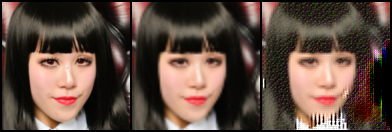
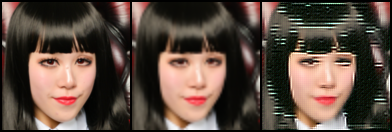
architecture changes

Changed region(s): [[0.6429, 0.0, 1.0, 1.0], [0.7959, 0.6364, 0.8571, 0.6667]]

diff --git a/diffusion2/model/model.py b/diffusion2/model/model.py
@@ -2,27 +2,23 @@ import math
 import torch
 from torch import nn
 import pytorch_lightning as pl
+from model.residual_block import Block, ResidualBlock, ResidualBlockDown, ResidualBlockUp
 
 from model.big_gan_residual import BigGanResidualDown, BigGanResidualSame, BigGanResidualUp
 
 class VarianceEmbedding(pl.LightningModule):
-    def __init__(self, embedding_shape):
+    def __init__(self, embedding_size):
         super(VarianceEmbedding, self).__init__()
-        self.embedding_shape = embedding_shape
+        self.embedding_size = embedding_size
 
-        flat_dim = 1
-        for k in embedding_shape:
-            flat_dim *= k
-
-    
         self.model = nn.Sequential(
-            nn.Linear(1,flat_dim),
-            nn.ReLU()
+            nn.Linear(1,embedding_size*4),
+            nn.SiLU(),
+            nn.Linear(embedding_size*4,embedding_size),
+
         )
     def forward(self, x):
-        y = self.model(x)
-        y = y.view(y.shape[0],1,*self.embedding_shape )
-        return y
+        return self.model(x)
 
 
 class Diffusion(pl.LightningModule):
@@ -32,7 +28,6 @@ class Diffusion(pl.LightningModule):
         hidden_channels, 
         out_channels, 
         scales, 
-        variance_embedding_shape=(64,64),
         same_dimension_blocks = 0):
         super(Diffusion, self).__init__()
         self.save_hyperparameters()
@@ -45,71 +40,72 @@ class Diffusion(pl.LightningModule):
         self.initial_transform = nn.Conv2d(
             in_channels=in_channels, 
             out_channels=hidden_channels,
-            kernel_size=1)
+            kernel_size=3,
+            padding=1)
+
+        self.v_embedding = VarianceEmbedding(hidden_channels)
 
         in_blocks = []
-        variance_embedding_in = []
         out_blocks = []
-        variance_embedding_out = []
 
         current_channels = hidden_channels
 
         for _ in range(scales):
-            in_blocks.append(BigGanResidualDown(current_channels))
-            out_blocks.append(BigGanResidualUp(current_channels*2))
+            in_blocks.append(
+                ResidualBlockDown(
+                    in_channels= current_channels,
+                    out_channels=current_channels*2,
+                    embedding_size=hidden_channels
+                    ))
+            out_blocks.append(
+                ResidualBlockUp(
+                    in_channels= current_channels*2*2,
+                    out_channels=current_channels,
+                    embedding_size=hidden_channels
+                    ))
+
             current_channels = 2*current_channels
 
-            variance_embedding_in.append(
-                VarianceEmbedding(variance_embedding_shape)
-            )
-            variance_embedding_out.append(
-                    VarianceEmbedding(variance_embedding_shape)
-                )
 
         for _ in range(same_dimension_blocks):
-            in_blocks.append(BigGanResidualSame(current_channels))
-            out_blocks.append(BigGanResidualSame(current_channels))
-        
-            variance_embedding_in.append(
-                    VarianceEmbedding(variance_embedding_shape)
-                )
-            variance_embedding_out.append(
-                    VarianceEmbedding(variance_embedding_shape)
-                )
+            in_blocks.append(ResidualBlock(
+                in_channels=current_channels,
+                out_channels=current_channels,
+                embedding_size=hidden_channels
+                ))
+            out_blocks.append(ResidualBlock(
+                in_channels=current_channels*2,
+                out_channels=current_channels,
+                embedding_size=hidden_channels
+                ))
 
-
-        variance_embedding_out.reverse()
         out_blocks.reverse()
 
         self.in_blocks = nn.ModuleList(in_blocks)
         self.out_blocks = nn.ModuleList(out_blocks)
 
-        self.variance_embedding_in = nn.ModuleList(variance_embedding_in)
-        self.variance_embedding_out = nn.ModuleList(variance_embedding_out)
 
-        self.final_transform = nn.Conv2d(
+        self.final_transform = Block(
             in_channels=hidden_channels, 
             out_channels=out_channels,
-            kernel_size=1)
+            )
 
     def forward(self, x, v):
         residuals = []
         y = self.initial_transform(x)
+        v_emv = self.v_embedding(v)
 
-        for m, v_f in zip(self.in_blocks,self.variance_embedding_in):
-            v_emv = v_f(v)
-            v_emv = torch.nn.functional.interpolate(v_emv, size=y.shape[-2:])
-            y = m(y + v_emv*(2**(-0.5)))
+
+        for m in (self.in_blocks):
+            y = m(y, v_emv)
 
             residuals.append(y)
 
         residuals.reverse()
 
-        for m, residual, v_f in zip(self.out_blocks, residuals,self.variance_embedding_out):
-            v_emv = v_f(v)
-            v_emv = torch.nn.functional.interpolate(v_emv, size=y.shape[-2:])
-
-            y = m(y + (residual + v_emv) *(2**(-0.5)))
+        for m, residual in zip(self.out_blocks, residuals):
+            y = torch.cat([y,residual],dim=1)
+            y = m(y, v_emv)
         
         return self.final_transform(y)
 

diff --git a/diffusion2/model/residual_block.py b/diffusion2/model/residual_block.py
@@ -1,0 +1,87 @@
+import torch
+from torch import nn
+import pytorch_lightning as pl
+
+class Block(nn.Module):
+    def __init__(self, in_channels, out_channels, group_norm=32) -> None:
+        super(Block, self).__init__()
+
+        print(f"block: in_channels {in_channels}, out_channels {out_channels} ")
+
+        self.model = nn.Sequential(
+            nn.GroupNorm(group_norm,in_channels),
+            nn.SiLU(),
+            nn.Conv2d(
+                in_channels=in_channels,
+                out_channels=out_channels,
+                kernel_size=3,
+                padding=1
+            )
+        )
+    def forward(self, x):
+        return self.model(x)
+
+
+class ResidualBlock(nn.Module):
+    def __init__(self, in_channels, out_channels, embedding_size, group_norm=32):
+        super(ResidualBlock, self).__init__()
+
+        self.block1 = Block(
+            in_channels=in_channels,
+            out_channels=out_channels,
+            group_norm=group_norm,
+            )
+
+        self.block2 = Block(
+            in_channels=out_channels,
+            out_channels=out_channels,
+            group_norm=group_norm,
+            )
+        
+        self.embedding = nn.Linear(embedding_size,out_channels)
+
+        self.skip = nn.Conv2d(
+            in_channels=in_channels,
+            out_channels=out_channels,
+            kernel_size=1
+        )
+
+        
+    def forward(self, x, v):
+        y =  self.block1(x)
+        v_emb = self.embedding(v)
+        y += v_emb.view(y.shape[0], y.shape[1], 1, 1)
+        y = self.block2(y)
+
+        return y + self.skip(x)
+
+
+class ResidualBlockDown(ResidualBlock):
+    def __init__(self, in_channels, out_channels, embedding_size, group_norm=32):
+        super(ResidualBlockDown, self).__init__(in_channels, out_channels, embedding_size, group_norm)
+
+        self.down_conv = nn.Conv2d(
+            in_channels=out_channels,
+            out_channels=out_channels,
+            kernel_size=3,
+            stride=2,
+            padding=1)
+
+    def forward(self, x, v):
+        return self.down_conv(super().forward(x,v))
+
+class ResidualBlockUp(ResidualBlock):
+    def __init__(self, in_channels, out_channels, embedding_size, group_norm=32):
+        super(ResidualBlockUp, self).__init__(in_channels, out_channels, embedding_size, group_norm)
+
+        self.up_conv = nn.Sequential(
+            nn.Upsample(scale_factor=2, mode="nearest"),
+            nn.Conv2d(
+                in_channels=out_channels,
+                out_channels=out_channels,
+                kernel_size=3,
+                padding=1)
+        )
+
+    def forward(self, x, v):
+        return self.up_conv(super().forward(x,v))

diff --git a/diffusion2/superres.py b/diffusion2/superres.py
@@ -23,7 +23,7 @@ def variance_scheudle(t, max_t):
 
     return torch.tensor((t_value/base))
 
-ckpt_file_path = "runs/big_gan_diffusion/version_16/checkpoints/epoch=1-step=4374.ckpt"
+ckpt_file_path = "runs/big_gan_diffusion/version_1/checkpoints/epoch=5-step=13122.ckpt"
 
 # d = Diffusion(in_channels=6, out_channels=3, hidden_channels=32,scales=2)
 d = Diffusion.load_from_checkpoint(ckpt_file_path)

diff --git a/diffusion2/data_loaders.py b/diffusion2/data_loaders.py
@@ -21,7 +21,7 @@ def get_data_loaders(batch_size: int, spatial_size) -> Tuple[data.DataLoader, da
     data_loader_train = data.DataLoader(
         train_set,
         batch_size=batch_size,
-        num_workers=8,
+        num_workers=12,
         shuffle=True,
         pin_memory=True
     )
